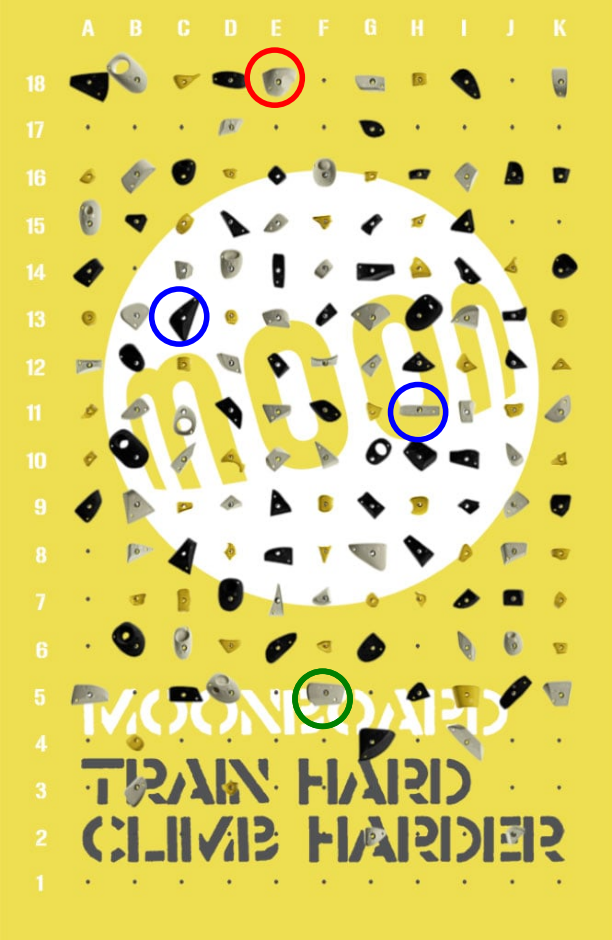
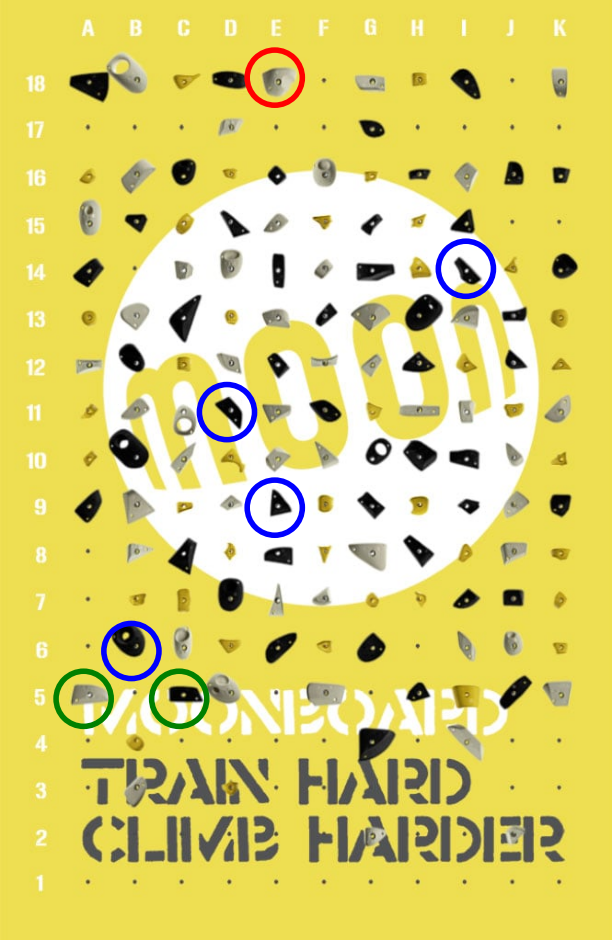
updated references + fixed starting hold

diff --git a/templates/index.html b/templates/index.html
@@ -298,6 +298,21 @@
       </div>
     </div>
     / Paper video. -->
+        
+    <!-- Original Model. -->
+    <div class="columns is-centered">
+      <div class="column is-four-fifths">
+        <h2 class="title is-3">Notes:</h2>
+
+        <div class="content has-text-justified">
+          <p>
+            The starting hold button is not fully functional, and is an area for future work.
+          </p>
+        </div>
+      </div>
+    </div>
+    <!--/ Original Model. -->
+
   </div>
 </section>
 
@@ -466,6 +481,9 @@
     <div class="columns is-centered">
       <div class="column is-8">
         <div class="content">
+          <p>
+            The original model was made by Yi-Shiou Duh and Ray Chang in <a href="https://arxiv.org/abs/2102.01788">Recurrent Neural Network for MoonBoard Climbing Route Classification and Generation</a>. The original code can be found <a href="https://github.com/jrchang612/MoonBoardRNN"> here</a>.
+          </p>
           <p>
             This site is borrowed from <a href="https://github.com/nerfies/nerfies.github.io">nerfies</a>.
           </p>

diff --git a/model.py b/model.py
@@ -89,8 +89,8 @@ for key in benchmark_handString_seq.keys():
 # handStringList = collectHandStringIntoList(mediumProblemKeyList)
 # numOfTrainingSample = len(handStringList)
 
-# with open(parent_wd + "/raw_data/holdStr_to_holdIx", 'rb') as f:
-#     holdStr_to_holdIx = pickle.load(f)
+with open(parent_wd + "/raw_data/holdStr_to_holdIx", 'rb') as f:
+    holdStr_to_holdIx = pickle.load(f)
 with open(parent_wd + "/raw_data/holdIx_to_holdStr", 'rb') as f:
     holdIx_to_holdStr = pickle.load(f)  
 # numOfPossibleHolds = 277    
@@ -165,7 +165,7 @@ def deepRouteSet(LSTM_cell, densor, n_values=n_values, n_a=64, Ty=12):
     return inference_model
 
 
-def predict_and_sample(inference_model, 
+def predict_and_sample(inference_model, start_hold=None,
                        x_initializer=np.random.rand(1, 1, n_values) / 100, 
                        a_initializer=np.random.rand(1, n_a) * 150, 
                        c_initializer=np.random.rand(1, n_a) / 2):
@@ -182,11 +182,27 @@ def predict_and_sample(inference_model,
     results -- numpy-array of shape (Ty, n_values), matrix of one-hot vectors representing the values generated
     indices -- numpy-array of shape (Ty, 1), matrix of indices representing the values generated
     """
-    
+    if start_hold:
+        print(start_hold)
+        print(holdStr_to_holdIx)
+        start_hold = start_hold.upper()
+        if np.random.choice([0, 1]):
+            start_hold += '-RH'
+        else:
+            start_hold += '-LH'
+        x = holdStr_to_holdIx[start_hold]
+        print(x)
+        x_initializer = np.zeros([1, n_values])
+        x_initializer[0][x] = 1
+        # x_initializer = tf.one_hot(x_initializer, n_values)
+        x_initializer = RepeatVector(1)(x_initializer)
     # Step 1: Use your inference model to predict an output sequence given x_initializer, a_initializer and c_initializer.
     pred = inference_model.predict([x_initializer, a_initializer, c_initializer])
     # Step 2: Convert "pred" into an np.array() of indices with the maximum probabilities
     indices =  np.argmax(pred, axis = 2)
+    print(indices.shape)
+    print(indices)
+    indices[0] = x
     # Step 3: Convert indices to one-hot vectors, the shape of the results should be (Ty, n_values)
     results =  to_categorical(indices, num_classes = np.shape(x_initializer)[2])
     

diff --git a/application.py b/application.py
@@ -25,14 +25,14 @@ def predict():
     Render image of generated route
     """
     start_hold = next(request.form.values())
-    
+
     while True:
         x_initializer = np.zeros((1, 1, n_values))
         x_initializer = np.random.rand(1, 1, n_values) / 100
         a_initializer = np.random.rand(1, n_a) * 150
         c_initializer = np.random.rand(1, n_a) / 2
     
-        results, indices = predict_and_sample(inference_model, x_initializer, a_initializer, c_initializer)
+        results, indices = predict_and_sample(inference_model, start_hold, x_initializer, a_initializer, c_initializer)
         passCheck, outputListInString, outputListInIx = sanityCheckAndOutput(indices, 
                                                                              holdIx_to_holdStr, 
                                                                              handStringList, 
